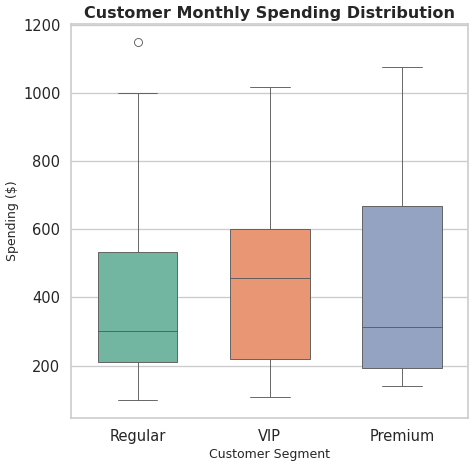
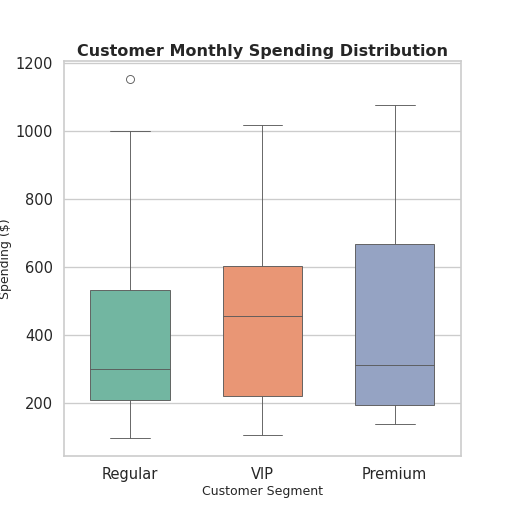
Fix chart size to 512x512

Changed region(s): [[0.0, 0.0, 1.0, 0.9893], [0.5612, 0.3298, 0.5907, 0.4197], [0.5316, 0.1799, 0.6203, 0.2099]]

diff --git a/chart.py b/chart.py
@@ -38,5 +38,6 @@ ax.set_xlabel("Customer Segment", fontsize=14)
 ax.set_ylabel("Spending ($)", fontsize=14)
 
 # Save as 512x512 px
-plt.savefig("chart.png", dpi=64, bbox_inches="tight")
+plt.savefig("chart.png", dpi=64, bbox_inches=None)
+
 plt.close()
